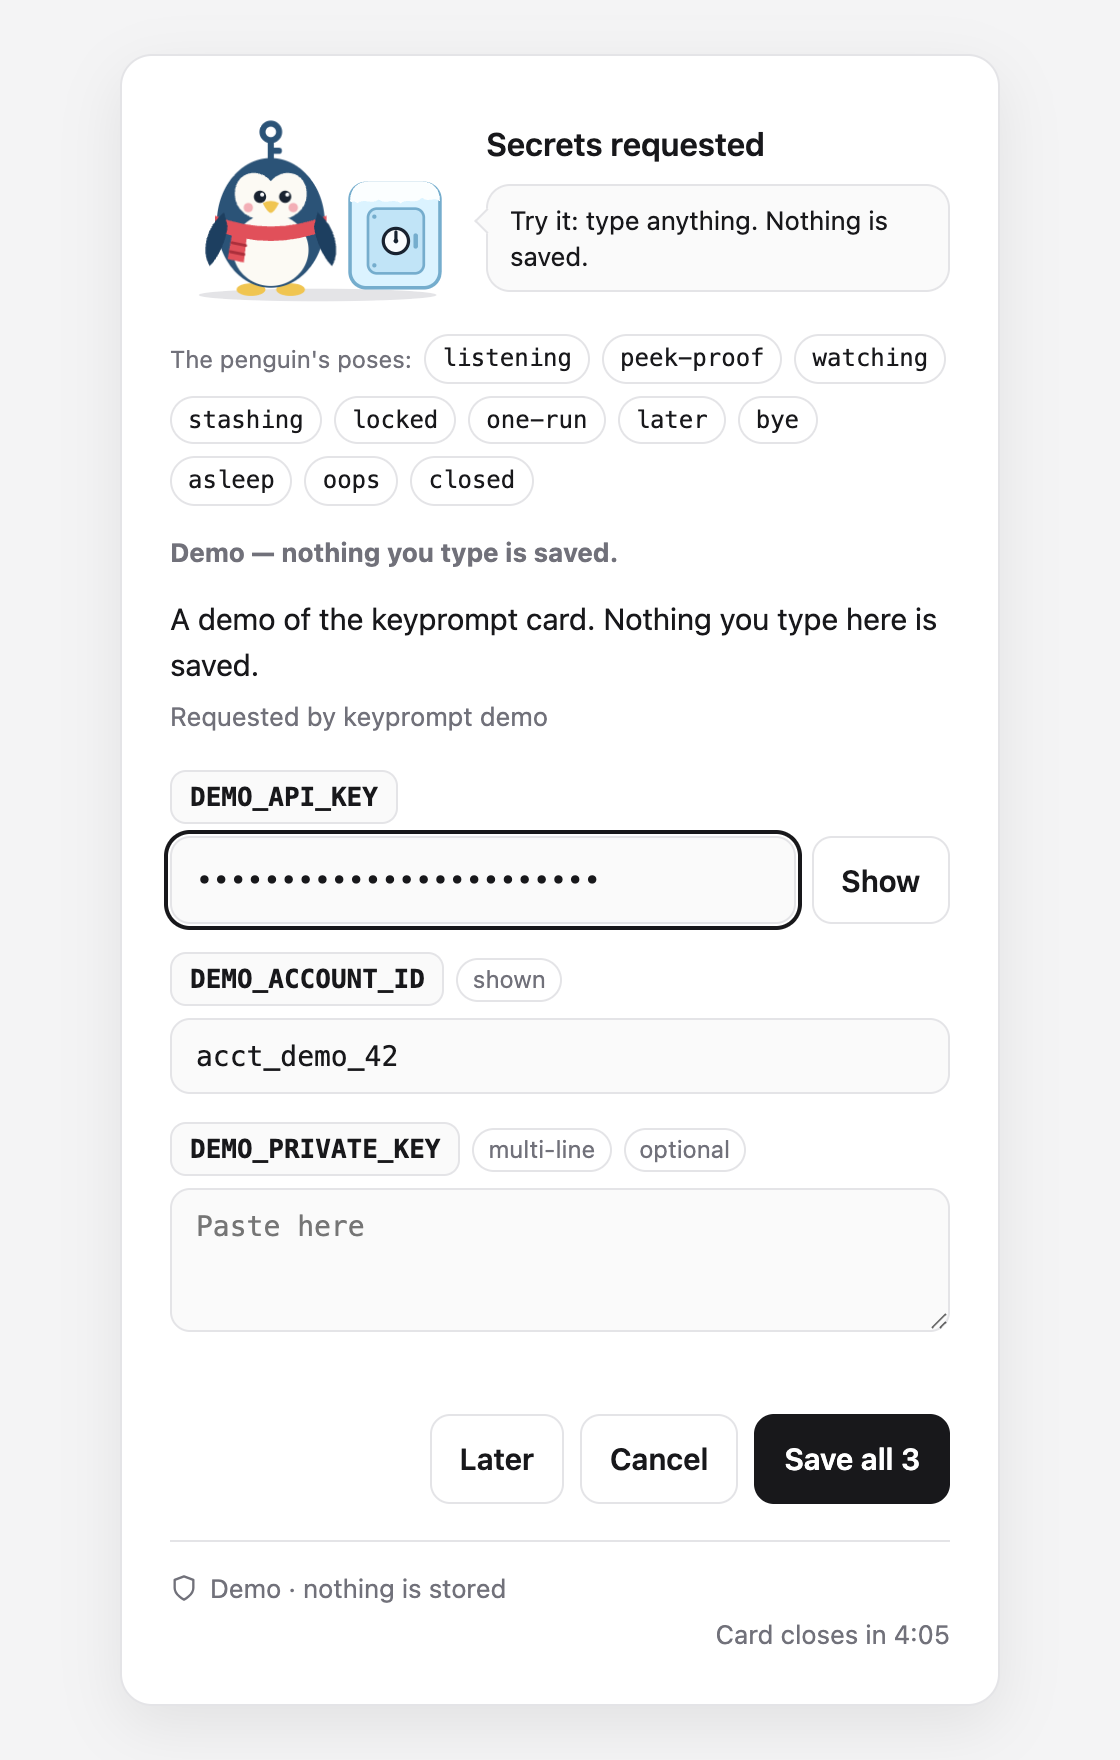
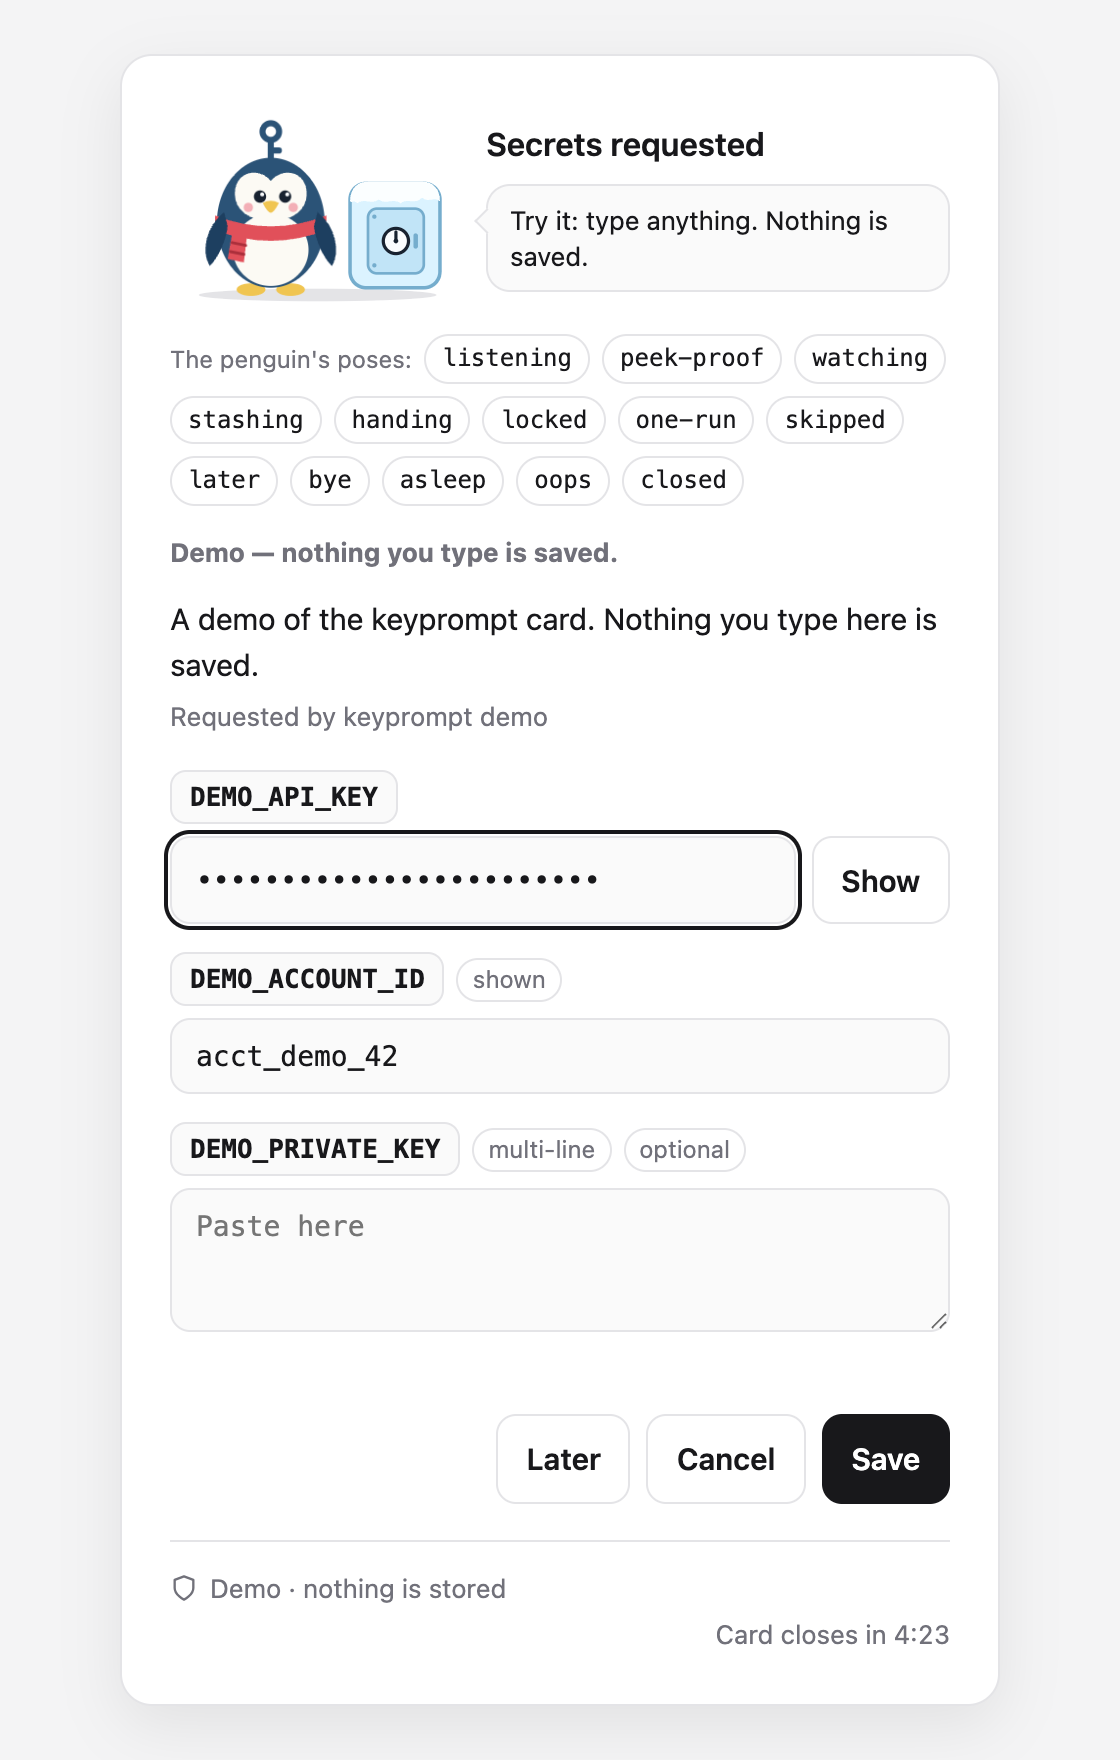
S-32: retake the README's demo pictures so they match the card (B-15) (#35)
* S-32: retake the README's two demo pictures (B-15)

Both pictures were taken before S-30 and S-31 and no longer match
`keyprompt demo`: the button said "Save all 3" and the pose row showed
11 poses where the card has 13.

Taken from the real `keyprompt demo` in headless Chromium, light theme,
560 px wide at 2x (1120 px), the same size as before. The card picture has
two boxes filled with fake values; the finished picture is after pressing
Save. The demo ran with a KEYPROMPT_HOME that does not exist and created
nothing. The README links still point at the old commit; the next commit
points them at this one.

* S-32: point the README's pictures at the new ones, and hold their descriptions to the demo card (B-15)

Both links now use commit 5ae0db8, which has the retaken pictures, and the
descriptions say "Save" and "pressing Save" instead of "Save all 3".

New test in test/cli.test.mjs: the README's two picture descriptions must
name the buttons that `keyprompt demo`'s card really renders (Later, Cancel
and the Save label), read from renderCard. A test cannot see a picture, but
it can stop the words from drifting again.

* S-32: register row, step entry and B-15's fix step (PR #35)

---------

diff --git a/docs/steps.md b/docs/steps.md
@@ -13,7 +13,7 @@ Plan: `docs/prd/card-v2.md`. Rules: `.claude/CLAUDE.md`. Standard: `~/.claude/sk
 | 3 Buddy | S-11 → S-12 → S-13 → S-14 | Demo command, the creature, motion, receipt and deadline |
 | 4 Honest and shipped | S-15, S-22, S-23, S-16 → S-17 | Headline fixed, mascot name dropped, card footer true, README and 0.2.0, npm publish |
 | 4b Lite wins from the teardowns | S-18, S-19 | Masking catches encoded copies; refuse a key pasted into a command |
-| Fixes | S-20, S-21, S-25, S-26, S-27, S-28, S-30, S-31 | B-6 (the card never ends while a save is under way), B-7 (one true sentence for an ended card), B-12 (masking finds a key's base64 inside longer base64), B-3 (a failed update of the list of names no longer fails a save that worked), B-13 (the same for a delete that worked), B-4 (on `run`, every optional box may be left empty), B-14 (the Save button says plain "Save" when any box is optional) and B-8 (with Remember unticked, the penguin holds an envelope and the vault stays shut) |
+| Fixes | S-20, S-21, S-25, S-26, S-27, S-28, S-30, S-31, S-32 | B-6 (the card never ends while a save is under way), B-7 (one true sentence for an ended card), B-12 (masking finds a key's base64 inside longer base64), B-3 (a failed update of the list of names no longer fails a save that worked), B-13 (the same for a delete that worked), B-4 (on `run`, every optional box may be left empty), B-14 (the Save button says plain "Save" when any box is optional), B-8 (with Remember unticked, the penguin holds an envelope and the vault stays shut) and B-15 (the README's two demo pictures match the card again) |
 | 5 Release | S-29 | 0.2.1 on npm: the six steps since 0.2.0 |
 
 Order: S-3, S-7, S-15 and S-18 touch different files from the S-2 → S-4 chain, so they can be built in parallel by separate sessions. Everything else follows the arrows.
@@ -53,6 +53,7 @@ Order: S-3, S-7, S-15 and S-18 touch different files from the S-2 → S-4 chain,
 | S-29 | done 2026-11-07 (PR #32) | **Published:** keyprompt@0.2.1 is on npm (2026-11-06 21:07:23 UTC, which is 2026-11-07 02:37 IST), with `latest` on it. It came from 29c70b2, the PR head CI tested (run 42292338017, 6 of 6). Its shasum, 5a5d29a668ec0075ca2c208102597b3f322c83a5, is the dry run's (27 files, 45.9 kB). `npx -y --cache <empty folder> keyprompt@latest --version`, run in an empty folder, printed 0.2.1. **Route:** the one S-17 found. npm was already logged in as abhishekshar649; `printf '\n' | script -q /dev/null npm publish --access public --auth-type=web` printed an approval link, Abhishek approved it with Touch ID, and no password or code passed through the session. npm answered "being processed" at the upload and `latest` flipped about 80 seconds later (0.2.0 took about 2.5 minutes). **The go:** asked and given before the publish, after CI was green and after npm's live state (`latest` 0.2.0) was read. **Break-tests:** the CHANGELOG-matches-version guard, broken 3 ways (heading back to "Unreleased", heading naming another version, `package.json` moved alone): all 3 failed that test. **Ships with** B-8 and B-14 open. **After the merge:** tag `v0.2.1` on the squash commit once `npm pack` there gives the same shasum, then the GitHub release; both need Abhishek's go. |
 | S-30 | done 2026-11-07 (PR #33) | Fixes B-14, as Abhishek chose ("Plain 'Save' if any box optional", D-8). **Before:** the old test pinned "Save all 3" on a card whose third box is optional, and S-28 had seen "Save all 2" in Chrome on a card of two optional boxes; the label counted boxes, not the ones that would be filled. **The change:** `renderCard` (`src/card-page.mjs`) says "Save" when any box is optional, "Save all N" when several boxes must all be filled, and "Save securely" for one required box; the Replace labels are untouched. A lone optional box says "Save" too, because on `run` it may be left empty. The PRD sketch shows `[Save]` with a one-line rule and D-8; the CHANGELOG has a new Unreleased section. **Tests:** the multi-field test expects "Save" and no "Save all", and a new test pins three cases (all required, one optional among two, a lone optional box). **Break-tests:** 3 of 3 caught (old logic back: 2 tests fail; plain "Save" on every card: 2 fail; a lone optional box ignored: 1 fails). **Proof:** 151 of 151 with `KEYPROMPT_STORE_TEST=1` (142 pass, 9 skipped plain); the demo card, which has an optional box, in headless Chromium in light and dark: the button reads "Save" and nothing shifts. Not looked at in Chrome by hand. **Learned:** the README's two demo pictures show "Save all 3" and are pinned to an older commit, so they no longer match `keyprompt demo`: logged as B-15, to be retaken after S-31. |
 | S-31 | done 2026-11-07 (PR #34) | Fixes B-8, as Abhishek chose ("New 'handing' pose", D-9). **Before:** with Remember unticked the card showed `stashing` (vault open, key carried into it) for a Save that stores nothing; the caption was true, the picture was not. **The change:** a new mood `handing` (`src/buddy.mjs`): the penguin holds out an envelope and the vault stays shut, caption "Handing it over…". It reuses the envelope and extended wing `one-run` already draws and only shifts the eyes to look at the envelope, so there is no new drawing and no motion. `src/card-script.mjs` picks it when the Remember box is unticked and skips the 600 ms wait for the key's trip into the vault, because none happens. The old one-run `stashing` caption row is gone from `CAPTION_VARIANTS` and from the PRD's replacement table; the buddy table has a 13th row; D-9 records the choice; the CHANGELOG has a bullet under Unreleased. **Tests:** 2 new (`test/buddy.test.mjs`: envelope shown, vault shut, no key, old caption gone; `test/card-script.test.mjs`: unticked shows `handing` then ends at once, ticked shows `stashing` and still waits, a refused one-run Save goes back to the form and a retry hands again) and 3 changed lines (13 rows, the motion test's title, the line that pins the wait). **Break-tests:** 7 of 7 caught (script always `stashing`: 1 fails; still waiting for a trip: 2; open vault: 1; no envelope: 1; key carried: 1; same eyes as `one-run`: 1; old caption back: 1). One of the seven was first written wrongly (it deleted the eye line, which still left the poses different) and was redone. **Proof:** 153 of 153 with `KEYPROMPT_STORE_TEST=1` (144 pass, 9 skipped plain). Headless Chromium: the demo card's `handing` preview in light and dark (envelope in hand, vault shut, 13 pose pills wrap in three rows); a real `keyprompt run` card with the request slowed read `handing` while waiting with Remember unticked, then `Ready`, the command printed its output and `has` exited 3; the same with Remember ticked read `stashing`, then `Saved`, and the throwaway Keychain item was deleted. Not looked at by hand in Chrome. **Learned:** a still pose that shares all its parts with another needs one visible difference or the pose test cannot tell them apart; here it is the eyes. |
+| S-32 | done 2026-11-07 (PR #35) | Fixes B-15. **Before:** the README's two pictures, pinned to e24f5ea, showed the card before S-30 and S-31: the button "Save all 3" and 11 poses in the pose row; the card says "Save" and has 13. **The change:** both pictures retaken from the real `keyprompt demo` (headless Chromium, light, 560 px wide at 2x, the same size and framing as S-16's): the card with its first two boxes filled with fake values, then the card after pressing Save. The demo ran with a `KEYPROMPT_HOME` that does not exist and created nothing. The README links pin the commit that adds the pictures (5ae0db8) and the descriptions say "Save" and "pressing Save". **Test:** 1 new in `test/cli.test.mjs`: the descriptions name the buttons `renderCard` gives the demo card (Later, Cancel and the Save label); 154 of 154 with `KEYPROMPT_STORE_TEST=1` (145 pass, 9 skipped plain). 3 break-tests caught, each failing exactly the new test (the old words back in either description; the card's label changed), and the tree matched the commit after each. GitHub served the same bytes at the pin (SHA-256 of both matched the local files). **Surprise:** the pin is a commit on the PR's branch, not on main, because the repo squash-merges (S-17's pin was on main). A raw link by SHA keeps working while GitHub keeps the pull request's ref (refs/pull/35/head); two secondary sources say it does, so medium confidence. If the links ever stop loading, one docs commit repoints them at a commit on main. **Learned:** a blinking text caret can land in a screenshot; retake until it is off, do not touch the page. **Known gaps:** headless Chromium, not looked at by hand in Chrome; light theme and desktop width only; no CHANGELOG line (the pictures are in the README, not in the program, and the npm page shows them from the next publish). |
 
 ---
 
@@ -699,6 +700,23 @@ Pinguu is our own design: flat vector shapes, rounded, a key-shaped head tuft an
 **Acceptance:** WHEN a person presses Save with "Remember on this computer" unticked THEN the card SHALL show the penguin holding an envelope with the vault shut and the caption "Handing it over…", and SHALL end at once on success; WHEN Remember is ticked or not offered THEN it SHALL show the key going into the vault as before.
 **Verify:** `KEYPROMPT_STORE_TEST=1 npm test` (153 of 153), including the new tests in `test/buddy.test.mjs` and `test/card-script.test.mjs`. Commit, then break the guards and watch a test fail each time. Then `keyprompt demo` (the `handing` pose button) in light and dark, and a real `keyprompt run NAME -- echo ok` card with the request slowed.
 **Must not:** change the `stashing`, `locked` or `one-run` poses or captions, the receipt, the footer, the server, or what is sent to it; add motion or a new drawing; add a dependency.
+
+---
+
+### S-32 — Retake the README's two demo pictures so they match the card (bug B-15)
+
+**PR:** one, with two commits: the new pictures first, then the README links and the test, because a link cannot point at a commit that does not exist yet.
+**Depends on:** S-30 and S-31 merged (they are), so the pictures are taken once.
+**Blocks:** nothing; best done before the next release.
+**Research:** lookup — whether GitHub keeps a pull request's commits after its branch is deleted, because the pin is a commit on the PR's branch. Two secondary sources say yes: medium confidence. No R-flag opened: a raw link by SHA either loads or it does not, and if it stops, the fix is one docs commit.
+**Model:** sonnet — a screenshot, two links and one test.
+**Confidence:** 0.9 — the pictures were seen and match the card, and the new test is broken three ways; how the pictures look is Abhishek's call, and the pin's durability is medium.
+**Files:** `docs/demo-card.png`, `docs/demo-finished.png`, `README.md`, `test/cli.test.mjs`, `docs/bugs.md`, `docs/steps.md`.
+**Today:** both pictures are pinned to e24f5ea and show the card before S-30 and S-31: the button "Save all 3" and 11 poses in the pose row. Their descriptions say "Save all 3". The card says "Save" and has 13 poses.
+**Change:** run the real `keyprompt demo` (headless Chromium, light, 560 px wide at 2x, with a `KEYPROMPT_HOME` that does not exist), fill the first two boxes with fake values and take the card picture; press Save and take the finished picture at 560 x 560. Commit the two pictures. Then point both README links at that commit and change the descriptions to "Save" and "pressing Save". Add one test that holds the descriptions to the demo card's real buttons.
+**Acceptance:** WHEN a person opens the README THEN its two pictures SHALL show the card as `keyprompt demo` shows it now (the button "Save", 13 poses) and their descriptions SHALL name the buttons the demo card renders.
+**Verify:** `KEYPROMPT_STORE_TEST=1 npm test` (154 of 154), including the new test in `test/cli.test.mjs`. Commit, then put "Save all 3" back in each description and change the card's label, and watch the new test fail each time. Fetch both raw links at the pinned commit and compare their SHA-256 with the local files. Look at both pictures.
+**Must not:** change the card, its poses or its words; add a CHANGELOG line (the pictures are not in the program); add a dependency; fill the card with anything but fake values.
 
 ---
 

diff --git a/README.md b/README.md
@@ -12,9 +12,9 @@ Needs Node.js 18.17 or later. On Linux, also install `secret-tool`: see [Install
 
 <!-- The pictures use full links pinned to one commit, so they also show on the npm page, which does not reliably resolve paths inside the repo. After changing a picture, point both links at the commit that has the new one. -->
 <p align="center">
-  <img src="https://raw.githubusercontent.com/abhisheksharma001/keyprompt/e24f5eab0411ceb7c204ace26130acf3ba99f3c4/docs/demo-card.png" width="380" align="middle" alt="The keyprompt demo card: a penguin beside a vault, three boxes for sample secrets, and the buttons Later, Cancel and Save all 3. A banner says nothing you type is saved.">
+  <img src="https://raw.githubusercontent.com/abhisheksharma001/keyprompt/5ae0db8edeee0d506ff8426d2721412243091a13/docs/demo-card.png" width="380" align="middle" alt="The keyprompt demo card: a penguin beside a vault, three boxes for sample secrets, and the buttons Later, Cancel and Save. A banner says nothing you type is saved.">
   &nbsp;
-  <img src="https://raw.githubusercontent.com/abhisheksharma001/keyprompt/e24f5eab0411ceb7c204ace26130acf3ba99f3c4/docs/demo-finished.png" width="380" align="middle" alt="The demo after pressing Save all 3: the penguin has shut the vault, the title reads Demo finished, and the card says nothing was saved.">
+  <img src="https://raw.githubusercontent.com/abhisheksharma001/keyprompt/5ae0db8edeee0d506ff8426d2721412243091a13/docs/demo-finished.png" width="380" align="middle" alt="The demo after pressing Save: the penguin has shut the vault, the title reads Demo finished, and the card says nothing was saved.">
 </p>
 
 <p align="center"><sub><code>keyprompt demo</code> opens this card. Nothing you type in it is saved.</sub></p>

diff --git a/docs/bugs.md b/docs/bugs.md
@@ -167,4 +167,4 @@ The deadline is the real-world path. Someone presses Save near the end of the 5 
 **Blocks:** nothing hard; best done before the next release.
 **Files:** `docs/demo-card.png`, `docs/demo-finished.png`, `README.md` (two links, two alt texts).
 **Research:** none · **Model:** sonnet · **Confidence:** 0.9 that the pictures no longer match the demo card (seen in S-30); how much it matters before the next release is Abhishek's call.
-**Fix step:** not queued yet.
+**Fix step:** S-32 (PR #35). Both pictures retaken once, after S-30 and S-31, from the real `keyprompt demo` (button "Save", 13 poses in the pose row; the old ones showed "Save all 3" and 11). The README links pin the commit that adds them, which is a commit on the PR's branch and not on main (the repo squash-merges), and the descriptions say "Save" and "pressing Save". A new test in `test/cli.test.mjs` holds the descriptions to the buttons the demo card renders, so the words cannot drift again; the pictures themselves still can, because no test can read a picture.
